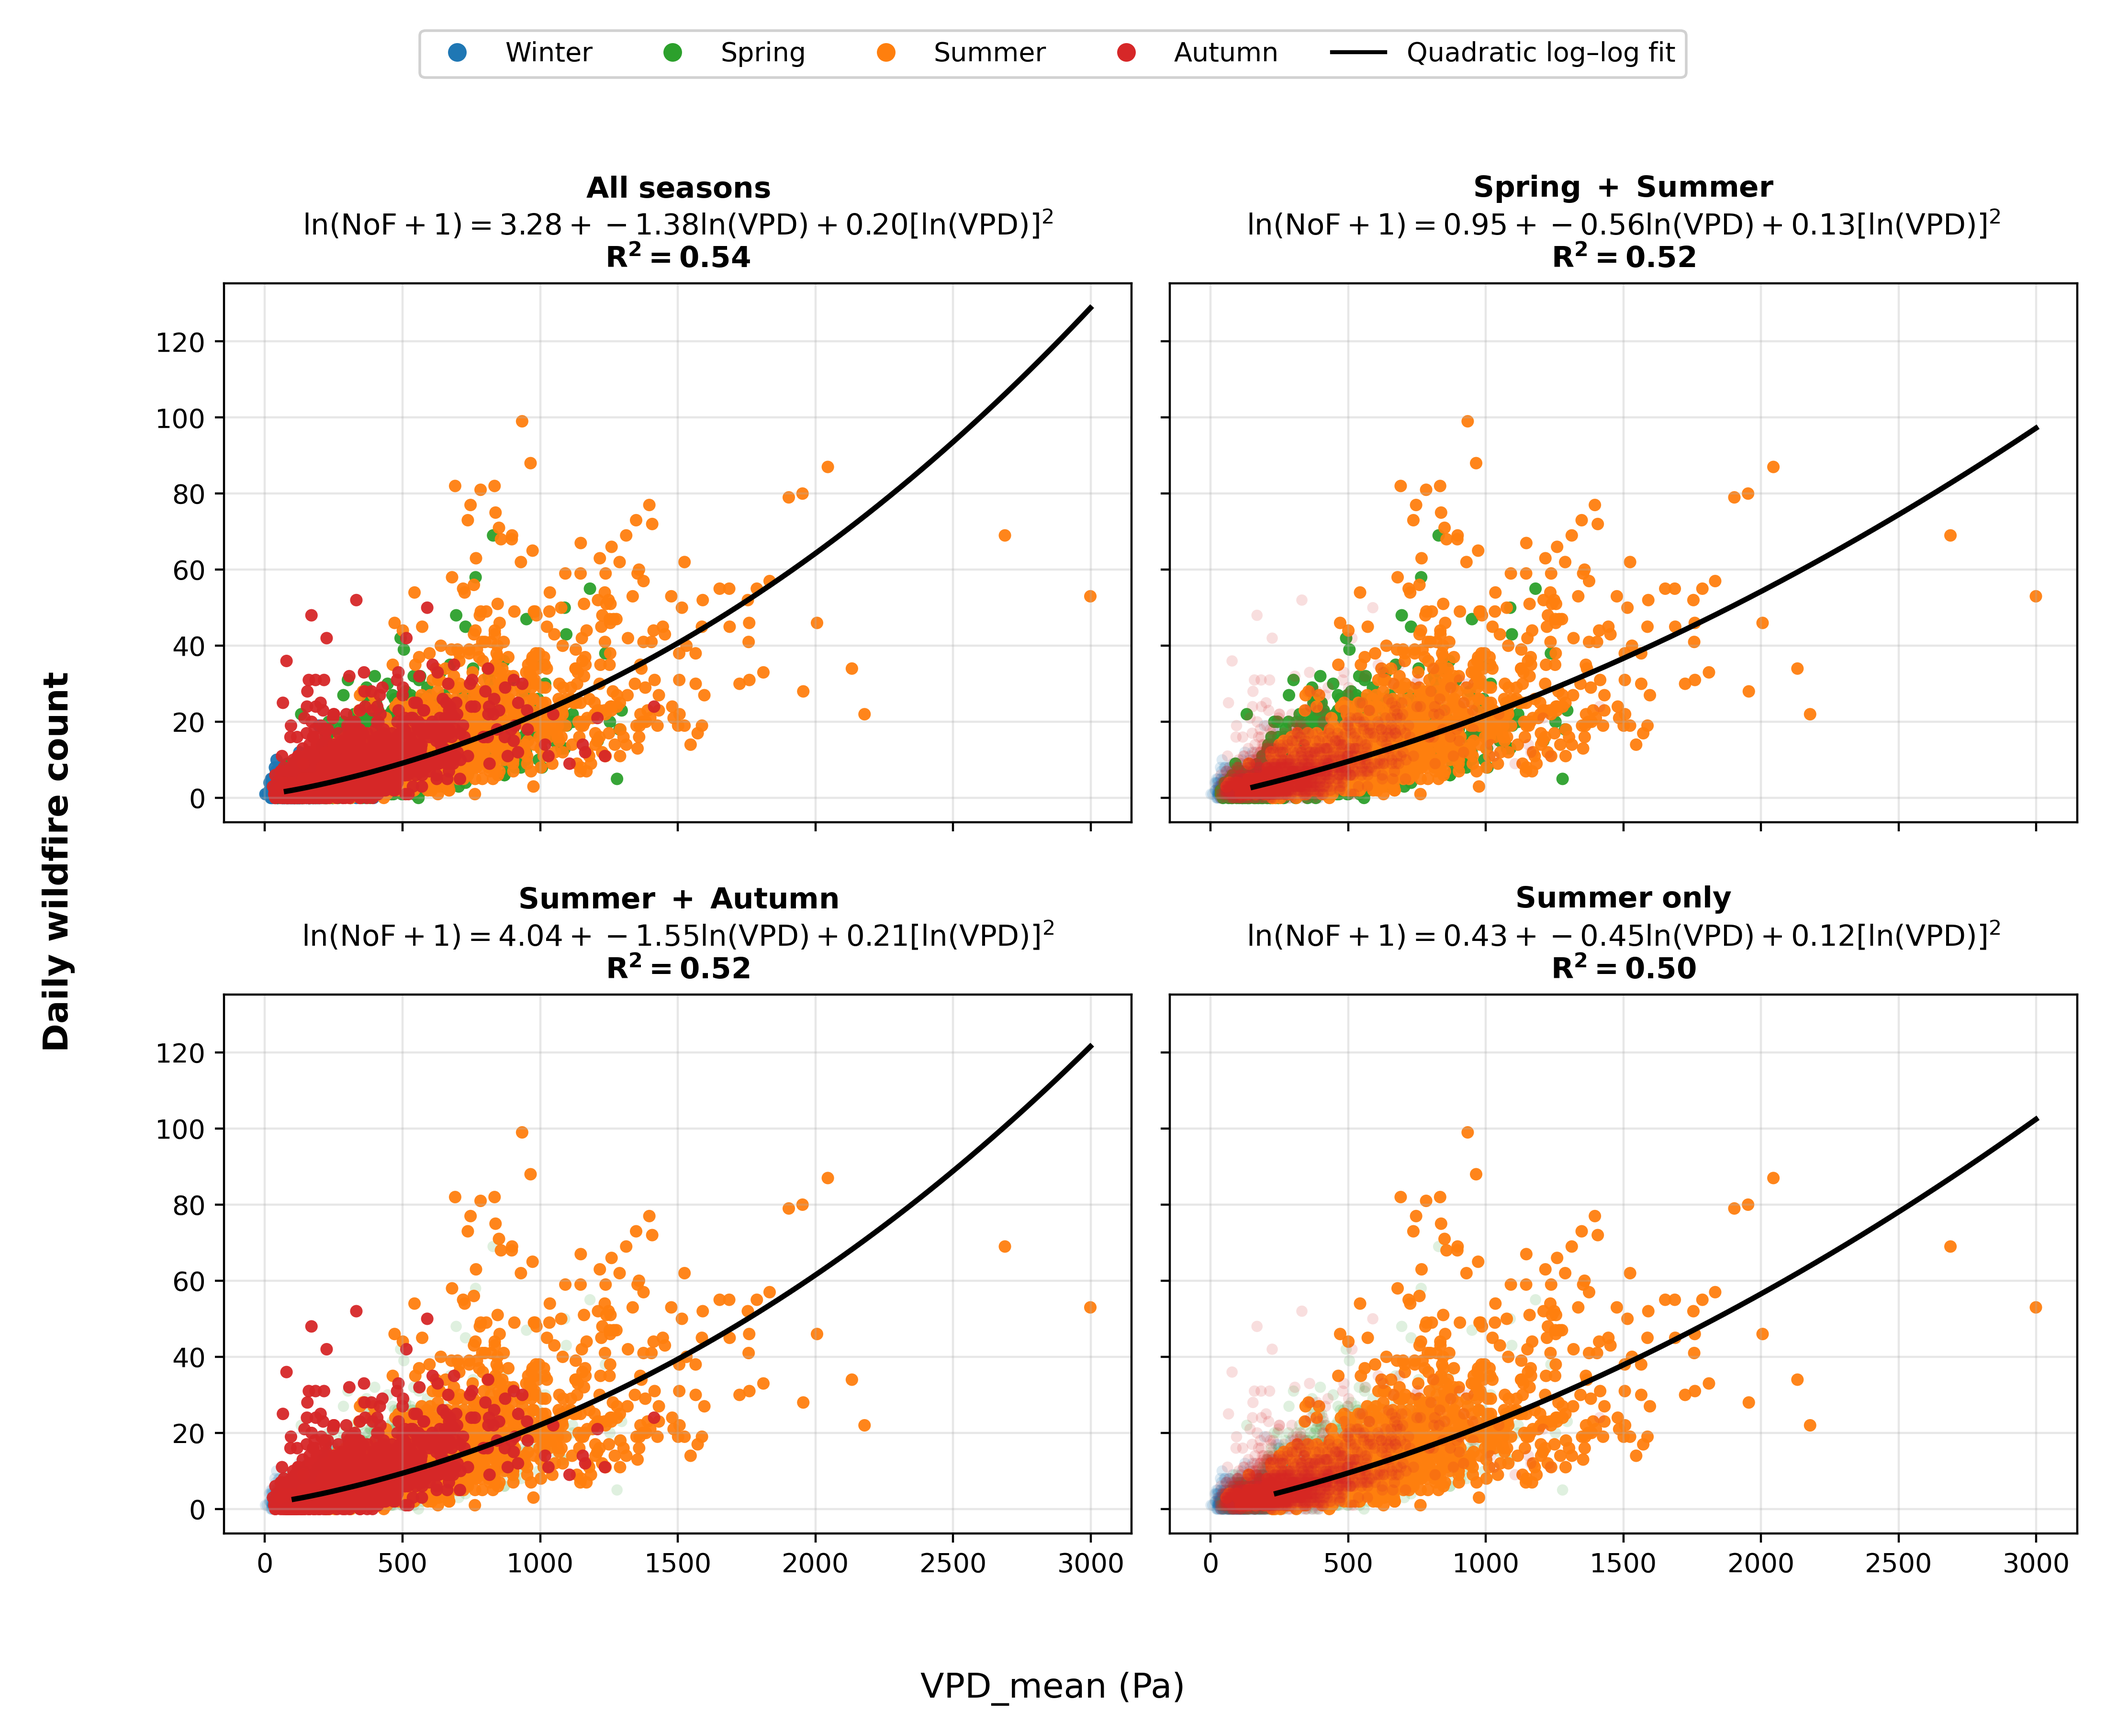
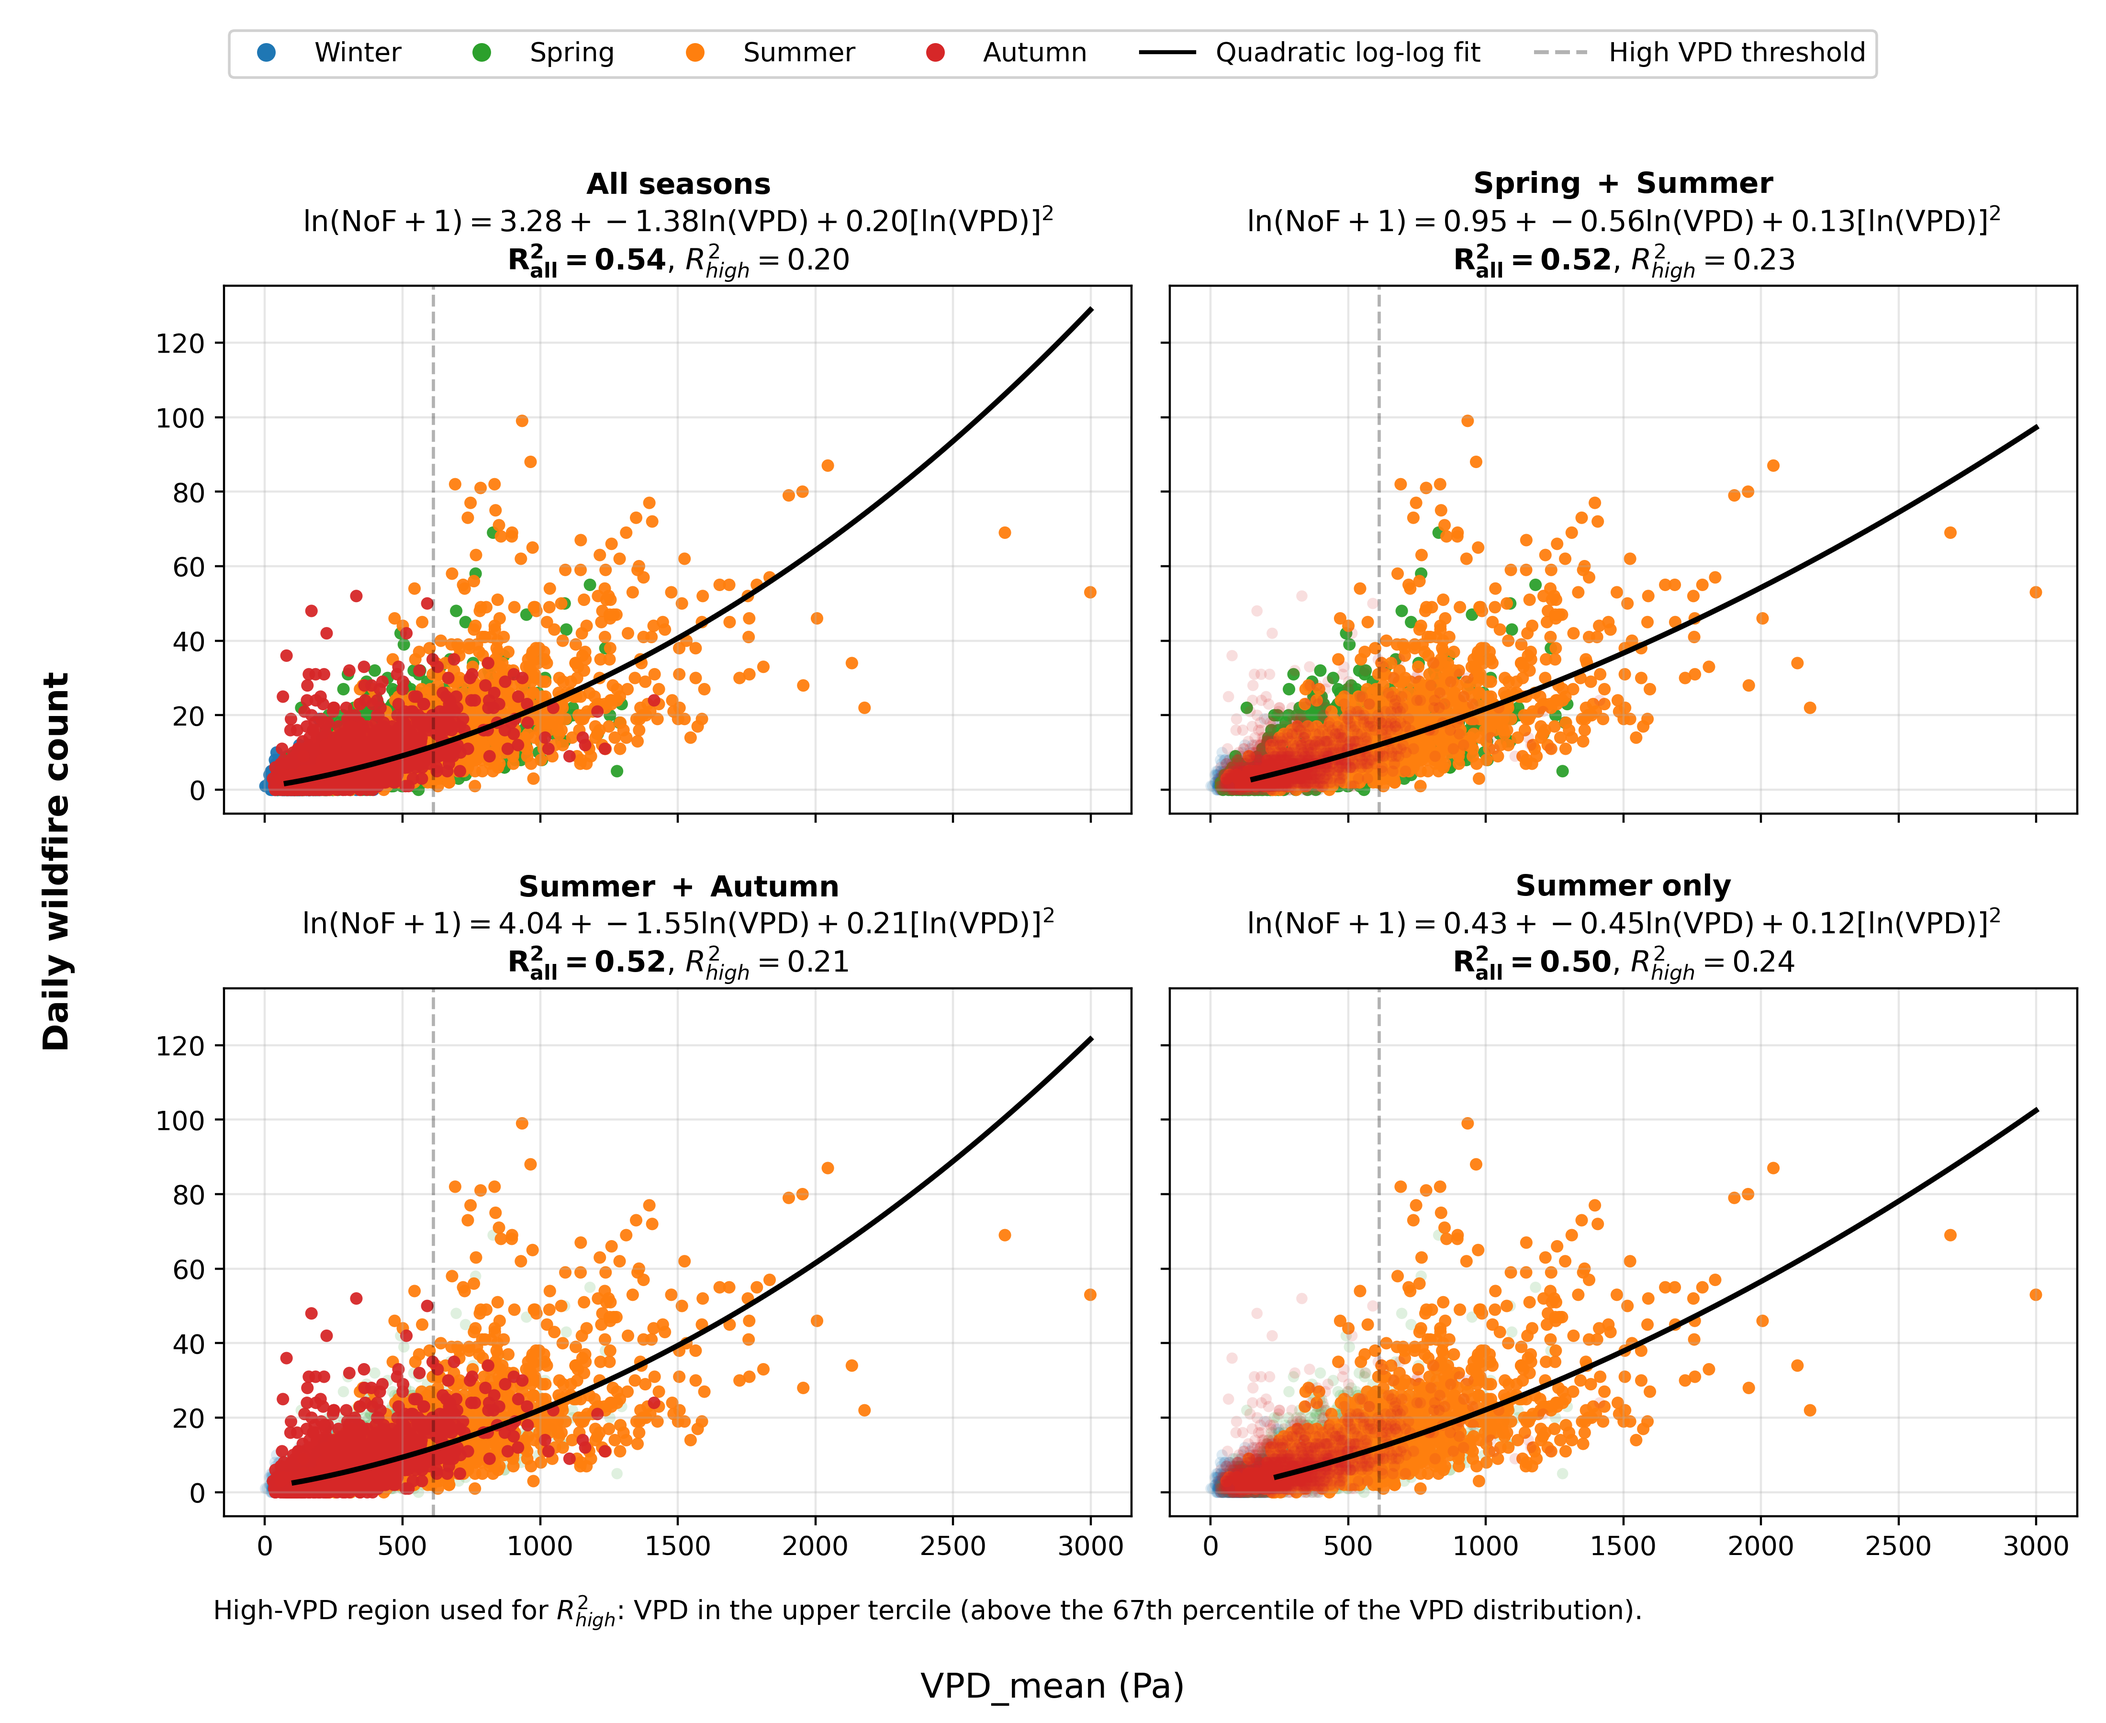
Add high VPD regime R² to seasonal quadratic plots
Introduces calculation and display of R² restricted to the high VPD regime in the seasonal quadratic log-log wildfire plots. Updates plot visuals to mark the high VPD threshold, adds explanatory notes, and removes unused power law scatter plot images.

diff --git a/data/graph_generation/1_num_fires_vs_vpd/1_vpd_studies/plot_num_fires_vs_vpd_quadratic.py b/data/graph_generation/1_num_fires_vs_vpd/1_vpd_studies/plot_num_fires_vs_vpd_quadratic.py
@@ -8,6 +8,11 @@ import matplotlib.lines as mlines  # for custom legend entries
 # ==== CONFIGURATION ====
 BASE_DIR = Path("data/graph_generation/1_num_fires_vs_vpd")
 YEARS = list(range(2009, 2025))  # 2009–2024 inclusive
+
+# High VPD threshold used to define the tail region for R²_high.
+# 611.5 Pa is the boundary between the mid- and high-VPD regimes
+# obtained from the VPD regime analysis (low ≤ 368.4 Pa, mid ≤ 611.5 Pa, high > 611.5 Pa).
+HIGH_VPD_THRESHOLD = 611.5  # Pa
 # =======================
 
 
@@ -63,7 +68,7 @@ def fit_quadratic_loglog(vpd: np.ndarray, fires: np.ndarray):
 
         log(NoF + 1) = c0 + c1*log(VPD) + c2*[log(VPD)]^2
 
-    Returns (c2, c1, c0), R2   [np.polyfit order].
+    Returns (c2, c1, c0), R²_all   [np.polyfit order].
     """
     vpd = np.asarray(vpd, dtype=float)
     fires = np.asarray(fires, dtype=float)
@@ -84,13 +89,45 @@ def fit_quadratic_loglog(vpd: np.ndarray, fires: np.ndarray):
     coeffs = np.polyfit(log_x, log_y, 2)
     c2, c1, c0 = coeffs
 
-    # compute R^2 in log space
+    # compute R² in log space over all data used for fitting
     y_pred_log = c2 * log_x**2 + c1 * log_x + c0
     ss_res = np.sum((log_y - y_pred_log) ** 2)
     ss_tot = np.sum((log_y - np.mean(log_y)) ** 2)
-    r2 = 1.0 - ss_res / ss_tot
+    r2_all = 1.0 - ss_res / ss_tot
 
-    return coeffs, r2
+    return coeffs, r2_all
+
+
+def compute_r2_high_vpd(
+    vpd: np.ndarray,
+    fires: np.ndarray,
+    c2: float,
+    c1: float,
+    c0: float,
+    threshold: float = HIGH_VPD_THRESHOLD,
+) -> float:
+    """
+    Compute R² restricted to the high VPD regime, defined as VPD > threshold.
+    Computation is done in the same log space as the fit.
+    """
+    vpd = np.asarray(vpd, dtype=float)
+    fires = np.asarray(fires, dtype=float)
+
+    mask = (vpd > threshold) & (vpd > 0) & ~np.isnan(fires)
+    if mask.sum() < 3:
+        return np.nan
+
+    x = vpd[mask]
+    y = fires[mask]
+
+    log_x = np.log(x)
+    log_y = np.log(y + 1.0)
+
+    y_pred_log = c2 * log_x**2 + c1 * log_x + c0
+    ss_res = np.sum((log_y - y_pred_log) ** 2)
+    ss_tot = np.sum((log_y - np.mean(log_y)) ** 2)
+
+    return 1.0 - ss_res / ss_tot
 
 
 def plot_seasonal_quadratic_loglog(df: pd.DataFrame):
@@ -118,16 +155,17 @@ def plot_seasonal_quadratic_loglog(df: pd.DataFrame):
         # fit quadratic log-log on the participating subset
         vpd_fit_data = vpd_all[fit_mask]
         fires_fit_data = fires_all[fit_mask]
-        coeffs, r2 = fit_quadratic_loglog(vpd_fit_data, fires_fit_data)
+        coeffs, r2_all = fit_quadratic_loglog(vpd_fit_data, fires_fit_data)
         c2, c1, c0 = coeffs
+
+        # R² in the high VPD regime
+        r2_high = compute_r2_high_vpd(vpd_fit_data, fires_fit_data, c2, c1, c0)
 
         # X-range for curve in this subplot (based on used points)
         # Avoid tiny VPD values that cause log(VPD) → -∞ behaviour in quadratic fits
-        vpd_min_safe = max(np.nanpercentile(vpd_fit_data, 5), 20)  # clip at 20 Pa minimum
+        vpd_min_safe = max(np.nanpercentile(vpd_fit_data, 5), 20.0)  # clip at 20 Pa minimum
         vpd_max = np.nanmax(vpd_fit_data)
-
         vpd_curve = np.linspace(vpd_min_safe, vpd_max, 300)
-
 
         log_vpd_curve = np.log(vpd_curve)
         log_fires_curve = c2 * log_vpd_curve**2 + c1 * log_vpd_curve + c0
@@ -170,6 +208,15 @@ def plot_seasonal_quadratic_loglog(df: pd.DataFrame):
             linewidth=2,
         )
 
+        # mark the high VPD threshold with a vertical line (more transparent)
+        ax.axvline(
+            HIGH_VPD_THRESHOLD,
+            color="black",
+            linestyle="--",
+            linewidth=1.2,
+            alpha=0.3,  # lower opacity
+        )
+
         # nice title with the quadratic relation in log–log space
         season_title = r"$\mathbf{" + title.replace(" ", r"\ ") + "}$"
         eq_line = (
@@ -181,10 +228,12 @@ def plot_seasonal_quadratic_loglog(df: pd.DataFrame):
             f"{c2:.2f}"
             r"[\ln(\mathrm{VPD})]^2$"
         )
-        r2_line = rf"$\mathbf{{R^2 = {r2:.2f}}}$"
+        r2_all_line = rf"$\mathbf{{R^2_{{all}} = {r2_all:.2f}}}$"
+        # R²_high not bold:
+        r2_high_line = rf"$R^2_{{high}} = {r2_high:.2f}$"
 
         ax.set_title(
-            f"{season_title}\n{eq_line}\n{r2_line}",
+            f"{season_title}\n{eq_line}\n{r2_all_line}, {r2_high_line}",
             fontsize=11,
         )
         ax.grid(True, alpha=0.3)
@@ -193,28 +242,44 @@ def plot_seasonal_quadratic_loglog(df: pd.DataFrame):
     fig.supxlabel("VPD_mean (Pa)", fontsize=13)
     fig.supylabel("Daily wildfire count", fontsize=13, fontweight="bold")
 
-    # ----- global legend for seasons + curve -----
+    # ----- global legend for seasons + curve + threshold -----
     season_handles = [
         mlines.Line2D([], [], color=color, marker="o", linestyle="None",
                       label=season_name.capitalize())
         for season_name, color in SEASON_COLORS.items()
     ]
-    curve_handle = mlines.Line2D([], [], color="black", label="Quadratic log–log fit")
+    curve_handle = mlines.Line2D([], [], color="black", label="Quadratic log-log fit")
+    threshold_handle = mlines.Line2D(
+        [], [], color="black", linestyle="--", alpha=0.3,
+        label="High VPD threshold"
+    )
 
     fig.legend(
-        handles=season_handles + [curve_handle],
+        handles=season_handles + [curve_handle, threshold_handle],
         loc="upper center",
-        ncol=5,
+        ncol=6,
         framealpha=0.9,
         bbox_to_anchor=(0.5, 0.99),
     )
 
-    plt.tight_layout(rect=[0.03, 0.03, 1, 0.93])
+    # explanatory note about what "high VPD" means for R²_high
+    fig.text(
+        0.44,
+        0.06,
+        (
+            "High-VPD region used for $R^2_{high}$: VPD in the upper tercile "
+            "(above the 67th percentile of the VPD distribution)."
+        ),
+        ha="center",
+        fontsize=10,
+    )
+
+    plt.tight_layout(rect=[0.03, 0.04, 1, 0.93])
 
     out_path = BASE_DIR / "1_vpd_studies/fires_vs_vpd_quadratic_loglog_seasonal.png"
     out_path.parent.mkdir(parents=True, exist_ok=True)
     plt.savefig(out_path, dpi=400)
-    print(f"Saved seasonal quadratic log–log figure to: {out_path}")
+    print(f"Saved seasonal quadratic log-log figure to: {out_path}")
 
     plt.show()
 
@@ -223,7 +288,7 @@ def main():
     print("Loading merged weather and fire datasets...")
     df = load_all_data()
 
-    print("Plotting seasonal quadratic log–log fits...")
+    print("Plotting seasonal quadratic log-log fits...")
     plot_seasonal_quadratic_loglog(df)
 
 
